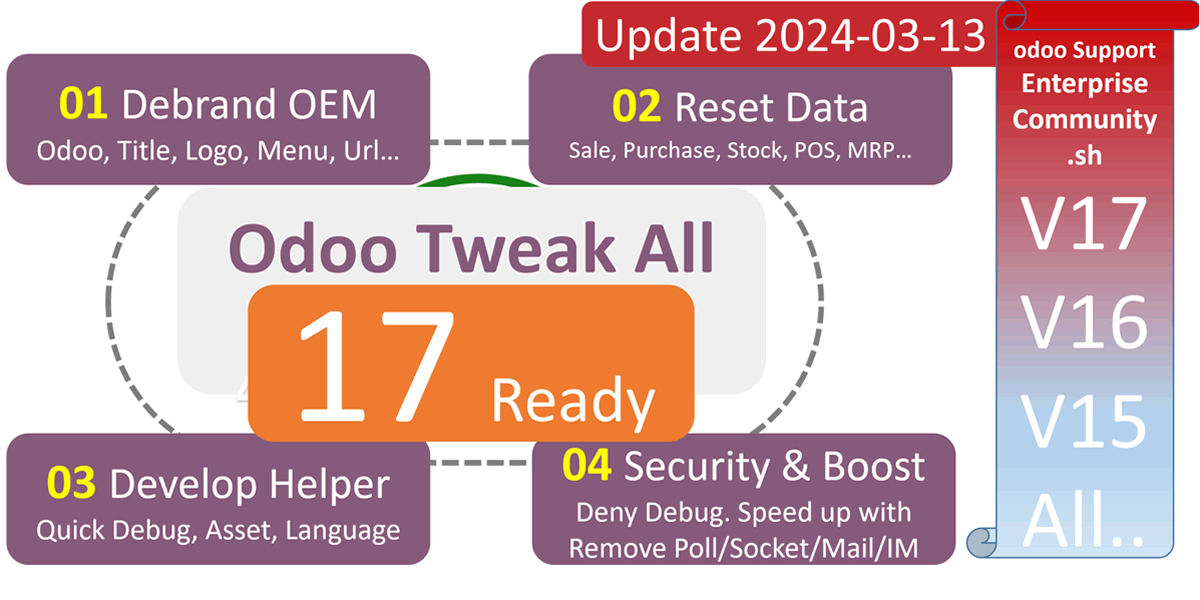
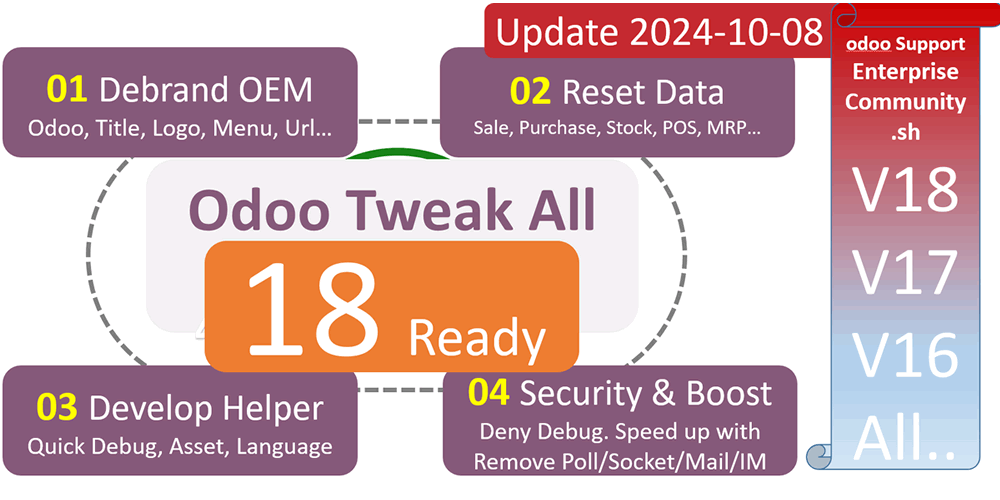
fix odoo customize

diff --git a/app_odoo_customize/static/description/index.html b/app_odoo_customize/static/description/index.html
@@ -11,8 +11,6 @@
 <section class="oe_container container o_cc o_cc2">
     <h2 class="text-center bg-warning text-white pt24 pb24">odoo 18 Tweak,Ai Employee,Boost,Customize All in One. </h2>
     <h3 class="text-center">Customize,UI,Boost,Security,Data,Development Enhance</h3>
-    <h4 class="text-center pt40 text-danger">Get Odoo 18 Support(Master Branch of Odoo) in github</h4>
-    <p class="bg-primary"> https://github.com/guohuadeng/app-odoo/tree/18.0 </p>
     <p class="text-center">已升级Odoo18支持，odoo优化48项大全,oem去Logo,odoo提速与数据清理 </p>
 </section>
 
@@ -20,7 +18,7 @@
 <section class="container app">
     <div class="oe_row oe_spaced" style="max-width: 95%;">
         <div class="row">
-            <h2 class="oe_slogan">This is a Long Term Support Apps.Update: v18.24.08.20</h2>
+            <h2 class="oe_slogan">This is a Long Term Support Apps.Update: v18.24.10.08</h2>
             <div class="oe_demo" style=" margin: 30px auto 0; padding: 0 15px 0 0; border:none; width: 96%;">
                 <ul class="list-group">
                     <li class="list-group-item">1. Deletes Odoo label in footer</li>

diff --git a/app_odoo_customize/__manifest__.py b/app_odoo_customize/__manifest__.py
@@ -23,7 +23,7 @@
 
 {
     'name': 'odoo18 Tweak,Ai Employee,Boost,Customize All in One. Customize,UI,Boost,Security,Data,Development Enhance',
-    'version': '24.08.19',
+    'version': '24.10.08',
     'author': 'odooai.cn',
     'category': 'Extra Tools',
     'website': 'https://www.odooai.cn',
